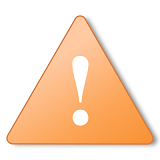
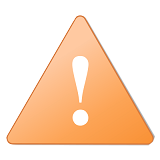
Refactor of dynamic entity alert functionality in UI
Minor re-working to allow general alerts for clients - also removed inappropriate listener event.

diff --git a/eccDash/src/main/java/uk/ac/soton/itinnovation/experimedia/arch/ecc/dash/views/client/ClientConnectionsView.java b/eccDash/src/main/java/uk/ac/soton/itinnovation/experimedia/arch/ecc/dash/views/client/ClientConnectionsView.java
@@ -25,18 +25,12 @@
 
 package uk.ac.soton.itinnovation.experimedia.arch.ecc.dash.views.client;
 
+import uk.ac.soton.itinnovation.experimedia.arch.ecc.common.dataModel.monitor.*;
+import uk.ac.soton.itinnovation.experimedia.arch.ecc.dash.uiComponents.*;
+
 import com.vaadin.ui.*;
-import java.util.Collection;
-import java.util.HashMap;
-import java.util.Iterator;
-import java.util.UUID;
-import uk.ac.soton.itinnovation.experimedia.arch.ecc.common.dataModel.monitor.EMClient;
-import uk.ac.soton.itinnovation.experimedia.arch.ecc.common.dataModel.monitor.EMPhase;
-import uk.ac.soton.itinnovation.experimedia.arch.ecc.dash.uiComponents.HighlightView;
-import uk.ac.soton.itinnovation.experimedia.arch.ecc.dash.uiComponents.HighlightViewListener;
-import uk.ac.soton.itinnovation.experimedia.arch.ecc.dash.uiComponents.SimpleView;
-import uk.ac.soton.itinnovation.experimedia.arch.ecc.dash.uiComponents.UILayoutUtil;
-import uk.ac.soton.itinnovation.experimedia.arch.ecc.dash.uiComponents.UIResource;
+
+import java.util.*;
 
 
 
@@ -139,18 +133,19 @@ public class ClientConnectionsView extends SimpleView
       ClientView cv = connectedClients.get( clientID );
       
       if ( cv != null ) 
-      {
-          cv.setSummaryInfo( entityCount, metricCount );
-          if(entityCount>0)
-          {
-              cv.statusIcon.setVisible(true);
-              cv.newEntitiesLabel.setVisible(true);
-              
-          }
-          
-      }
-           
+        cv.setSummaryInfo( entityCount, metricCount );
     }
+  }
+  
+  public void displayAlert( UUID clientID,
+                            String alertMsg )
+  {
+     if ( clientID != null )
+     {
+       ClientView cv = connectedClients.get(clientID);
+       
+       if ( cv !=null ) cv.setAlertMsg( alertMsg );
+     }
   }
   
   // HighlightViewListener -----------------------------------------------------
@@ -213,20 +208,6 @@ public class ClientConnectionsView extends SimpleView
     }
   }
   
-  @Override
-  public void onEntityAdded(UUID clientID)
-  {
-     if(clientID!=null)
-     {
-         ClientView cv = connectedClients.get(clientID);
-         if ( cv !=null )
-         {
-             cv.newEntitiesLabel.setVisible(false);
-             cv.statusIcon.setVisible(false);
-         }
-     }
-  }
-  
   // Private methods -----------------------------------------------------------
   private void createComponents()
   {
@@ -249,18 +230,14 @@ public class ClientConnectionsView extends SimpleView
   // Private classes -----------------------------------------------------------
   private class ClientView extends HighlightView
   {
-    private Label  clientName;
-    private Label  currentPhase;
-    private Label  entityCountLabel;
-    private Label  metricCountLabel;
-    private Label newEntitiesLabel;
-    private Button disconnectButton;
+    private Label    clientName;
+    private Label    currentPhase;
+    private Label    entityCountLabel;
+    private Label    metricCountLabel;
+    private Label    alertLabel;
+    private Button   disconnectButton;
     private Embedded statusIcon;
-    
-    
-    
-
-            
+                
     private transient EMClient client;
     private transient boolean forceDisconnect = false;
     
@@ -285,24 +262,27 @@ public class ClientConnectionsView extends SimpleView
     {
       entityCountLabel.setValue( "Entities: " + entityCount );
       metricCountLabel.setValue( "Metrics: " + metricCount );
-      
+    }
+    
+    public void setAlertMsg( String msg )
+    {
+      if ( msg != null )
+      {
+        alertLabel.setData( msg );
+        alertLabel.setVisible( true );
+        statusIcon.setVisible( true );
+      }
+      else
+      {
+        alertLabel.setVisible( false );
+        statusIcon.setVisible( false );
+      }
     }
     
     // HighlightView overrides -------------------------------------------------
     @Override
     public UUID getDataID()
     { return client.getID(); }
-    
-    @Override
-    public void setSelected( boolean selected )
-    {
-      super.setSelected( selected );
-       if(!selected)
-        {
-           //statusIcon.setVisible(false);
-          // newEntitiesLabel.setVisible(false);
-      }
-   }
     
     // Private methods ---------------------------------------------------------
     private void createComponents()
@@ -321,21 +301,23 @@ public class ClientConnectionsView extends SimpleView
       innerVL.setWidth( "240px" );
       hl.addComponent( innerVL );
       
-     
-       // New entity warning icon
+      // Client name and alert bar
+      HorizontalLayout nabHL = new HorizontalLayout();
+      innerVL.addComponent( nabHL );
+      
+      // New entity warning icon
       statusIcon = new Embedded(null, UIResource.getResource( "alertIcon") );
       statusIcon.setWidth("20px");
       statusIcon.setHeight("20px");
-      innerVL.addComponent(statusIcon);
-      innerVL.setComponentAlignment(statusIcon, Alignment.TOP_RIGHT);
+      nabHL.addComponent(statusIcon);
+      nabHL.setComponentAlignment(statusIcon, Alignment.TOP_RIGHT);
       statusIcon.setVisible(false);
-      
       
       // Client name label
       clientName = new Label( client.getName() );
       clientName.addStyleName( "small" );
-      innerVL.addComponent( clientName );
-           
+      nabHL.addComponent( clientName );
+      
       // Space
       innerVL.addComponent( UILayoutUtil.createSpace( "2px", null ) );
       
@@ -364,11 +346,10 @@ public class ClientConnectionsView extends SimpleView
       innerVL.addComponent( metricCountLabel );
       
       // Label to inform of new entities
-      newEntitiesLabel = new Label ( "New Entities Available" );
-      newEntitiesLabel.addStyleName( "tiny" );
-      // To do: change font colour to red
-      innerVL.addComponent(newEntitiesLabel);
-      newEntitiesLabel.setVisible(false);
+      alertLabel = new Label();
+      alertLabel.addStyleName( "tiny" );
+      innerVL.addComponent(alertLabel);
+      alertLabel.setVisible( false );
       
       // Space
       vl.addComponent( UILayoutUtil.createSpace( "10px", null ) );

diff --git a/eccDash/src/main/java/uk/ac/soton/itinnovation/experimedia/arch/ecc/dash/DashMainController.java b/eccDash/src/main/java/uk/ac/soton/itinnovation/experimedia/arch/ecc/dash/DashMainController.java
@@ -297,6 +297,10 @@ public class DashMainController extends UFAbstractEventManager
       connectionsView.updateClientSummaryInfo( clientID, 
                                                MetricHelper.getAllEntities( allGenerators ).size(),
                                                MetricHelper.getAllMeasurementSets( allGenerators ).size() );
+      
+      // If we are not in discovery phase, alert user that new metric model data has arrived
+      if ( !currentPhase.equals(EMPhase.eEMDiscoverMetricGenerators) )
+        connectionsView.displayAlert( clientID, "New metric data available" );
           
       if ( clientID.equals(connectionsView.getSelectedClientID()) )
       {
@@ -588,7 +592,13 @@ public class DashMainController extends UFAbstractEventManager
       EMClient client = expMonitor.getClientByID( clientID );
       if ( client != null )
       {
+        // Reset alerts on connection view
+        connectionsView.displayAlert( clientID, null );
+        
+        // Update client view
         clientInfoView.writeClientInfo( client );
+        
+        // Switch focus if necessary
         mainDashView.switchViewFocus( 0 );
       }
     }
@@ -686,7 +696,6 @@ public class DashMainController extends UFAbstractEventManager
         }
         else problem = "Could not put entity into live view: client does not hold entity";
       }
-      connectionsView.onEntityAdded(currClientID);
     }
     
     // Report problems, if any

diff --git a/eccDash/src/main/java/uk/ac/soton/itinnovation/experimedia/arch/ecc/dash/views/client/ClientInfoView.java b/eccDash/src/main/java/uk/ac/soton/itinnovation/experimedia/arch/ecc/dash/views/client/ClientInfoView.java
@@ -223,7 +223,7 @@ public class ClientInfoView extends SimpleView
     // Status bar
     HorizontalLayout sb = new HorizontalLayout();
     sb.setStyleName( "eccGraphPanel" );
-    vl.addComponent(sb);
+    //vl.addComponent(sb); INTEGRATE THIS LATER
     
     // Graph icon used to show entity has been added to live monitoring
     monitoringIcon = new Embedded(null, UIResource.getResource("monitorIcon"));

diff --git a/eccDash/src/main/java/uk/ac/soton/itinnovation/experimedia/arch/ecc/dash/views/client/ClientViewListener.java b/eccDash/src/main/java/uk/ac/soton/itinnovation/experimedia/arch/ecc/dash/views/client/ClientViewListener.java
@@ -33,5 +33,4 @@ import java.util.UUID;
 interface ClientViewListener
 {
   void onClientDisconnect( UUID clientID, boolean force );
-  void onEntityAdded(UUID clientID);
 }
